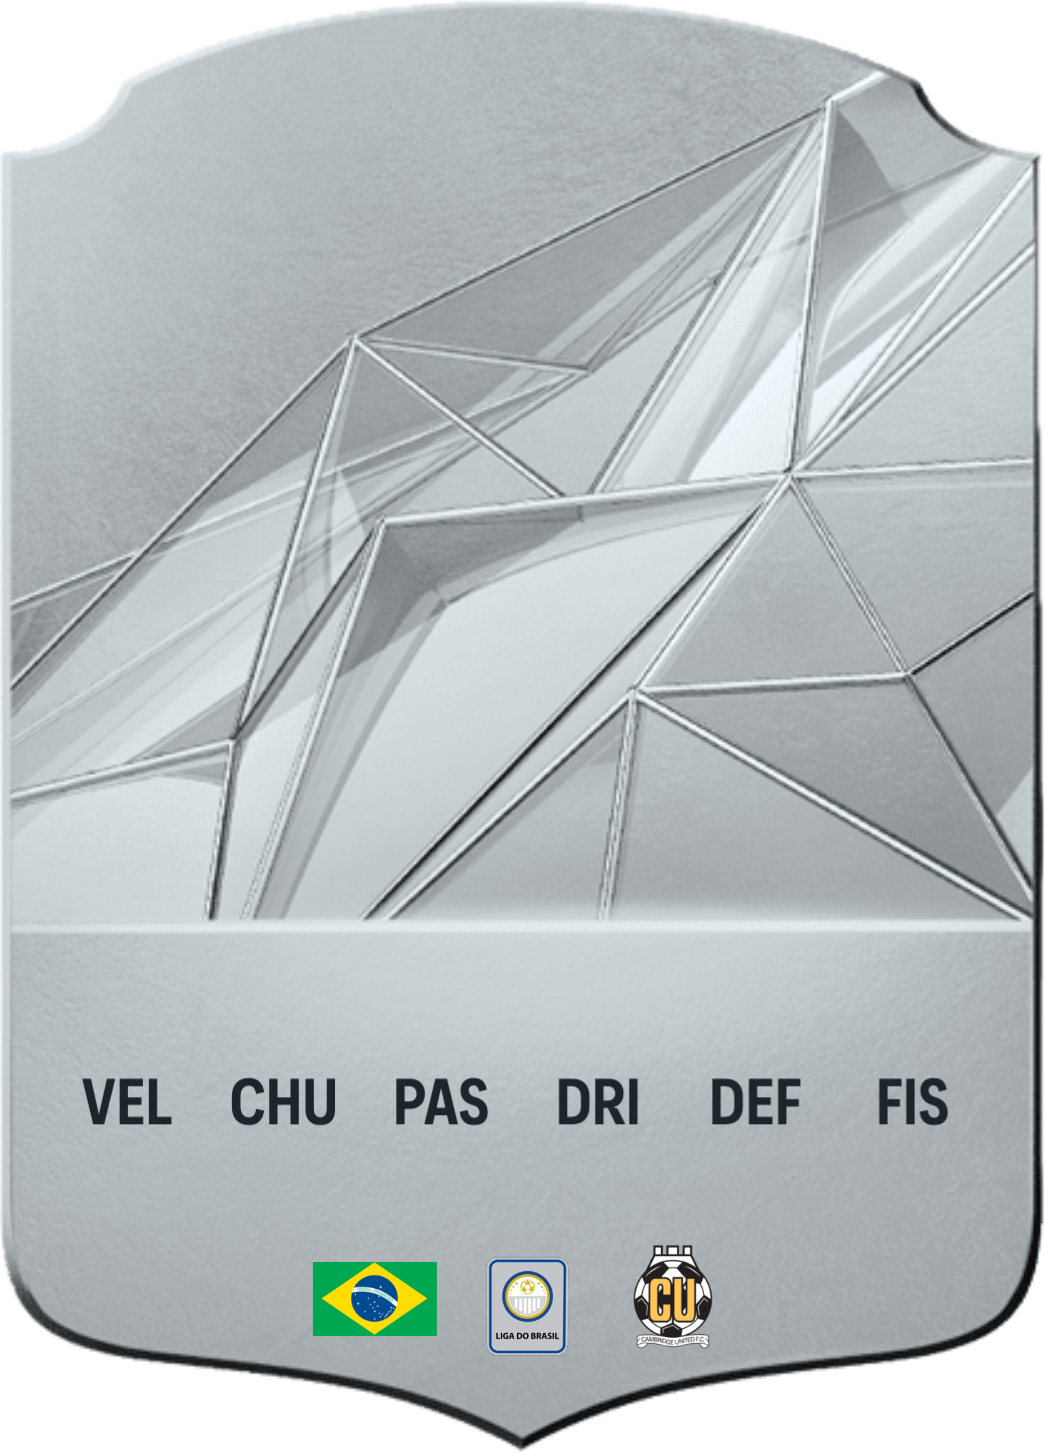
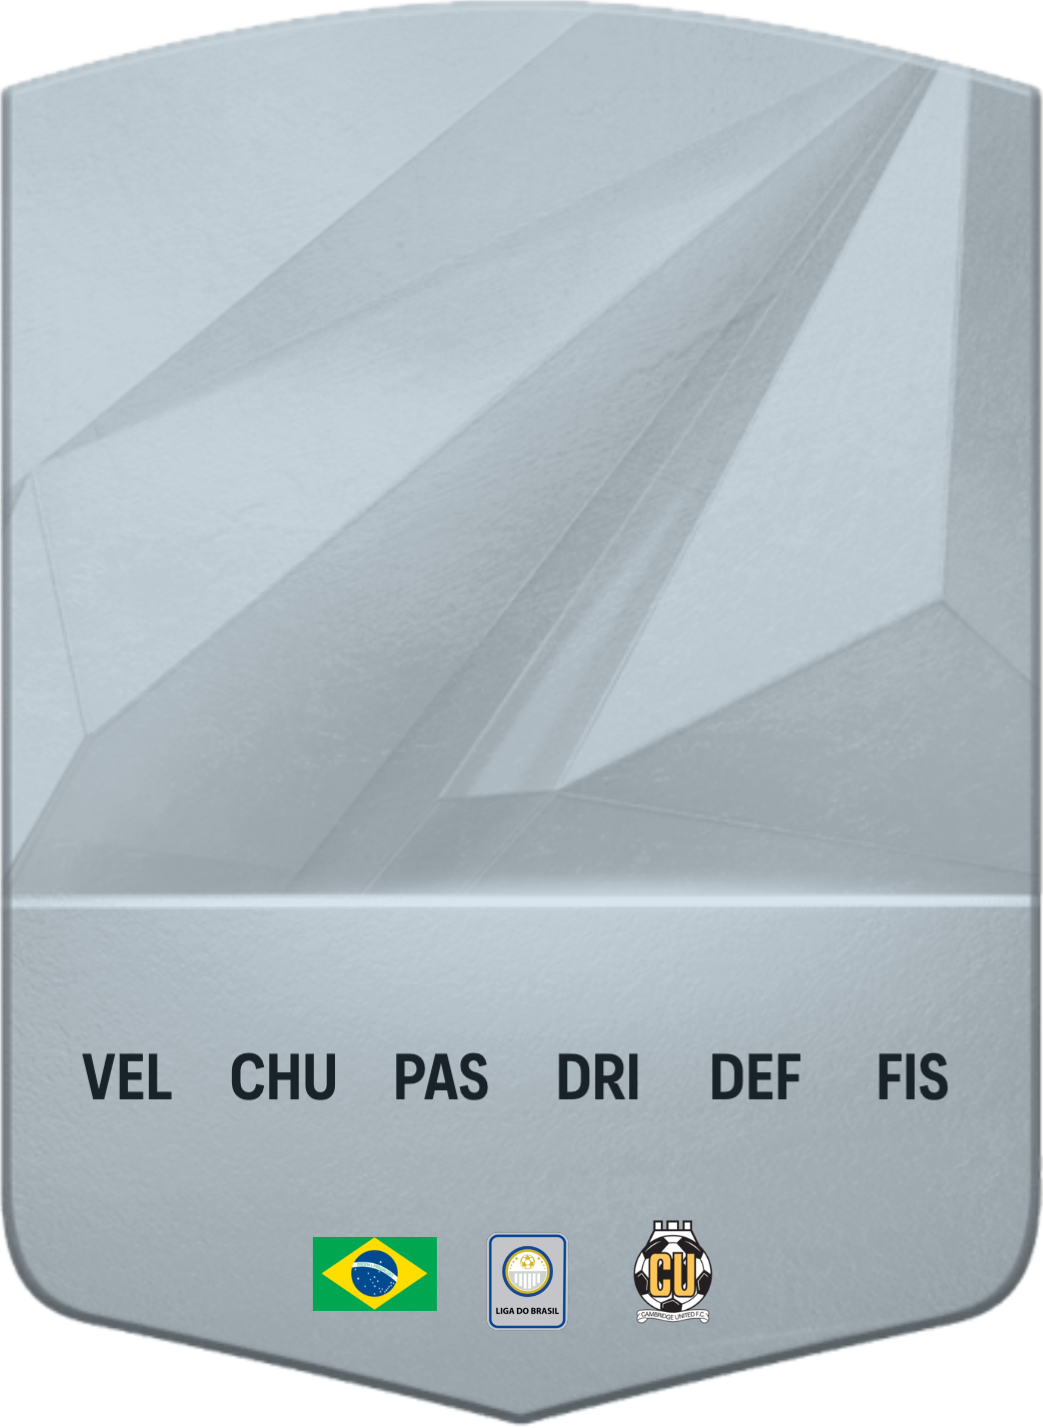
ajuste na responsividade dos cards

diff --git a/src/pages/ListaJogadores.jsx b/src/pages/ListaJogadores.jsx
@@ -111,15 +111,33 @@ const ListaJogadores = () => {
       )}
 
       <div className="row row-cols-2 row-cols-sm-2 row-cols-md-3 row-cols-lg-4 g-3">
-        {jogadores.map((jogador) => (
+        {jogadores.map((jogador, index) => (
           <div className="col" key={jogador.id}>
-            <Card className={`player-card h-100`}>
+            <Card className={`player-card h-100 justify-content-end`}>
               <img
-                src={`/public/${jogador.geral >= 75 ? "gold" : "silver"}.png`}
+                src={`/public/${
+                  jogador.geral >= 80
+                    ? "gold-r"
+                    : jogador.geral >= 75
+                    ? "gold"
+                    : jogador.geral >= 73
+                    ? "silver-r"
+                    : jogador.geral >= 65
+                    ? "silver"
+                    : jogador.geral >= 62
+                    ? "bronze-r"
+                    : "bronze"
+                }.png`}
                 alt=""
               />
-              <div className="col-12 card-content">
+              <div className={`col-12 card-content`}>
                 <div className="player-img-container">
+                  <div className="overall-position">
+                    <div className="overall-badge">
+                      {calcularMediaGeral(jogador.habilidades, jogador.posicao)}
+                    </div>
+                    <div className="position-badge">{jogador.posicao}</div>
+                  </div>
                   <img
                     src={getPlayerImage(jogador)}
                     alt={jogador.nome}
@@ -127,23 +145,14 @@ const ListaJogadores = () => {
                   />
                 </div>
 
-                <div className="overall-position">
-                  <div className="overall-badge">
-                    {calcularMediaGeral(jogador.habilidades, jogador.posicao)}
-                  </div>
-                  <div className="position-badge">{jogador.posicao}</div>
-                </div>
-
                 <div className="jogador-nome">{jogador.nome}</div>
 
-                <div className="mt-1 mt-md-3">
-                  <div className="stats-container g-2">
+                <div className="">
+                  <div className="stats-container">
                     {jogador.habilidades &&
                       ordemHabilidades.map((habilidade) => (
-                        <div className="col" key={habilidade}>
-                          <small className="stat-value fw-bold">
-                            {jogador.habilidades[habilidade]}
-                          </small>
+                        <div className="stat-value" key={habilidade}>
+                          {jogador.habilidades[habilidade]}
                         </div>
                       ))}
                   </div>

diff --git a/src/App.css b/src/App.css
@@ -26,30 +26,44 @@ body {
 }
 
 .player-img-container {
+  /* background-color: #fd7e14; */
   margin-top: 16%;
   height: 52%;
+  width: 100%;
   overflow: hidden;
   display: flex;
-  align-items: center;
+  align-items: start;
   justify-content: end;
+  justify-self: center;
   padding-right: 3px;
 }
 
+.top-card .player-img-container {
+  margin-top: 20%;
+  width: 86%;
+}
+
 .player-img {
+  /* background-color: #0d6efd; */
   width: 75%;
   height: 100%;
   object-fit: contain;
 }
 
 .overall-position {
+  /* background-color: #00c896; */
+  width: 25%;
   display: flex;
   flex-direction: column;
   align-items: start;
   font-weight: bolder;
   font-size: 2rem;
-  position: absolute;
-  top: 50px;
-  left: 8px;
+  padding-left: 5%;
+}
+
+.top-card .overall-position {
+  top: 70px;
+  left: 24px;
 }
 
 .overall-badge {
@@ -57,29 +71,53 @@ body {
 }
 
 .position-badge {
+  color: #0e0e0e;
   display: inline-block;
   font-size: 1rem;
   font-weight: bold;
-  color: #0e0e0e;
 }
 
 .jogador-nome {
+  /* background-color: #198754; */
   color: #0e0e0e;
+  display: flex;
+  justify-self: center;
+  height: 10%;
   font-weight: bolder;
   text-align: center;
   font-size: 1.5rem;
 }
 
 .stats-container {
+  /* background-color: #00c896; */
+  color: #0e0e0e;
   display: flex;
+  justify-self: center;
+  justify-content: space-between;
   font-size: 1.5rem;
-  justify-content: center;
+  width: 100%;
+  padding: 0 16px;
+  margin-top: 4%;
+  margin-right: 2%;
+}
+
+.top-card .stats-container {
+  width: 86%;
   padding: 0 8px;
-  padding-left: 16px;
+  margin-right: 0%;
 }
 
 .stat-value {
+  /* background-color: #dc3545; */
   color: #0e0e0e;
+  font-weight: bold;
+}
+
+.top-card .overall-badge,
+.top-card .position-badge,
+.top-card .jogador-nome,
+.top-card .stat-value {
+  color: #e0e0e0;
 }
 
 .buttons-container {
@@ -239,7 +277,10 @@ body {
   }
 
   .stats-container {
+    padding: 0 10px;
+  }
+
+  .stats-container {
     font-size: 1rem;
-    padding-left: 12px;
   }
 }
